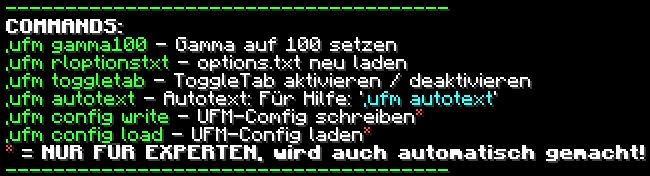
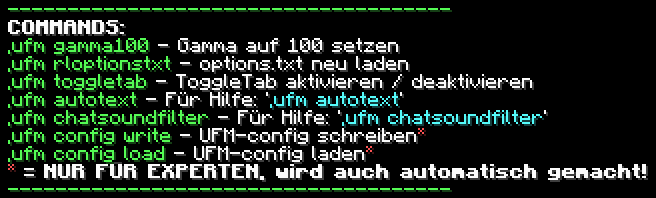
Added Chatsoundfilters, cleaned the code a bit

diff --git a/src/main/java/letsric/letsricsusefulmod/CommandHandler.java b/src/main/java/letsric/letsricsusefulmod/CommandHandler.java
@@ -1,0 +1,143 @@
+package letsric.letsricsusefulmod;
+
+import net.minecraft.client.MinecraftClient;
+import net.minecraft.client.gui.screen.ChatScreen;
+import net.minecraft.client.gui.widget.TextFieldWidget;
+import net.minecraft.text.LiteralText;
+
+import static letsric.letsricsusefulmod.LetsricsUsefulMod.autoTextArray;
+
+public class CommandHandler {
+    public static void onChatEvent(ChatScreen thisObject, TextFieldWidget ChatField, String message) {
+        if(message.startsWith(",ufm")) {
+            MinecraftClient.getInstance().inGameHud.getChatHud().addToMessageHistory(message);
+
+
+            if (message.startsWith(",ufm gamma100")) {
+                MinecraftClient.getInstance().options.gamma = 100;
+                MinecraftClient.getInstance().options.write();
+                MinecraftClient.getInstance().player.sendMessage(new LiteralText("§aGamma auf 100 gesetzt!"), true);
+
+
+            } else if (message.startsWith(",ufm rloptionstxt")) {
+                MinecraftClient.getInstance().options.load();
+                MinecraftClient.getInstance().player.sendMessage(new LiteralText("§aOptions.txt neu geladen!"), true);
+
+
+            } else if (message.startsWith(",ufm toggletab")) {
+                if (LetsricsUsefulMod.TablistInToggleMode) {
+                    LetsricsUsefulMod.TablistInToggleMode = false;
+                    LetsricsUsefulMod.WriteUFMOptionsFile();
+                    MinecraftClient.getInstance().player.sendMessage(new LiteralText("ToggleTab §cdeaktiviert§f!"), true);
+                } else {
+                    LetsricsUsefulMod.TablistInToggleMode = true;
+                    LetsricsUsefulMod.WriteUFMOptionsFile();
+                    MinecraftClient.getInstance().player.sendMessage(new LiteralText("ToggleTab §aaktiviert§f!"), true);
+                }
+
+
+            } else if (message.startsWith(",ufm autotext")) {
+                if (message.startsWith(",ufm autotext add")) {
+                    String trimmedMessage = message.substring(18);
+                    if (AutoText.addAutoTextKeybind(trimmedMessage) == 0) {
+                        autoTextArray.add(trimmedMessage);
+                        LetsricsUsefulMod.WriteUFMOptionsFile();
+                        MinecraftClient.getInstance().player.sendMessage(new LiteralText("§aHinzugefügt!"), true);
+                    }
+
+                } else if (message.startsWith(",ufm autotext list")) {
+                    if (!autoTextArray.isEmpty()) {
+                        MinecraftClient.getInstance().player.sendMessage(new LiteralText("------------------------"), false);
+                        MinecraftClient.getInstance().player.sendMessage(new LiteralText("§a§lAutotext:"), false);
+                        for (int i = 0; i < autoTextArray.size(); i++) {
+                            MinecraftClient.getInstance().player.sendMessage(new LiteralText("§b " + autoTextArray.get(i)), false);
+                        }
+                        MinecraftClient.getInstance().player.sendMessage(new LiteralText("------------------------"), false);
+                    } else
+                        MinecraftClient.getInstance().player.sendMessage(new LiteralText("§cAutoText ist leer!"), false);
+
+                } else if (message.startsWith(",ufm autotext remove")) {
+                    String trimmedMessage = message.substring(21);
+                    String fullMessage = "";
+                    for (int i = 0; i < autoTextArray.size(); i++) {
+                        String i2 = autoTextArray.get(i);
+                        if (i2.startsWith(trimmedMessage)) fullMessage = i2;
+                    }
+                    if (!fullMessage.equals("")) {
+                        if (AutoText.removeAutoTextKeybind(fullMessage) == 0) {
+                            autoTextArray.remove(fullMessage);
+                            LetsricsUsefulMod.WriteUFMOptionsFile();
+                            MinecraftClient.getInstance().player.sendMessage(new LiteralText("§aEntfernt!"), true);
+                        }
+                    } else
+                        MinecraftClient.getInstance().player.sendMessage(new LiteralText("§cNichts gefunden, dass mit §b" + trimmedMessage + "§c beginnt!"), true);
+
+                } else {
+                    MinecraftClient.getInstance().player.sendMessage(new LiteralText("§a-------------------------------------"), false);
+                    MinecraftClient.getInstance().player.sendMessage(new LiteralText("§lAUTOTEXT:"), false);
+                    MinecraftClient.getInstance().player.sendMessage(new LiteralText("§a,ufm autotext add <KEY>;<COMMAND>§f:"), false);
+                    MinecraftClient.getInstance().player.sendMessage(new LiteralText("   Einen neuen Autotext Hotkey hinzufügen."), false);
+                    MinecraftClient.getInstance().player.sendMessage(new LiteralText("   §cALLE TASTEN MÜSSEN IM ENGLISCHEN LAYOUT SEIN!"), false);
+                    MinecraftClient.getInstance().player.sendMessage(new LiteralText("   Liste von allen möglichen Tasten ist auf dem Github!"), false);
+                    MinecraftClient.getInstance().player.sendMessage(new LiteralText("   <KEY> = Die Taste für den neuen Hotkey"), false);
+                    MinecraftClient.getInstance().player.sendMessage(new LiteralText("   <MESSAGE> = Die Chatnachricht, die gesendet werden soll."), false);
+                    MinecraftClient.getInstance().player.sendMessage(new LiteralText("   §eBEISPIEL§f: §b,ufm autotext add c;/gamemode creative"), false);
+                    MinecraftClient.getInstance().player.sendMessage(new LiteralText("§a,ufm autotext list§f:"), false);
+                    MinecraftClient.getInstance().player.sendMessage(new LiteralText("   Alle Autotexts auflisten"), false);
+                    MinecraftClient.getInstance().player.sendMessage(new LiteralText("§a,ufm autotext remove <KEY>;<COMMAND>§f:"), false);
+                    MinecraftClient.getInstance().player.sendMessage(new LiteralText("   Das selbe wie autotext add, nur das"), false);
+                    MinecraftClient.getInstance().player.sendMessage(new LiteralText("   es keinen neuen Hotkey hinzufügt,"), false);
+                    MinecraftClient.getInstance().player.sendMessage(new LiteralText("   sondern einen vorhandenen löscht."), false);
+                    MinecraftClient.getInstance().player.sendMessage(new LiteralText("   Wenn dieser nicht vorhanden ist,"), false);
+                    MinecraftClient.getInstance().player.sendMessage(new LiteralText("   passiert nichts."), false);
+                    MinecraftClient.getInstance().player.sendMessage(new LiteralText("   §eBEISPIEL§f: §b,ufm autotext remove c;/gamemode creative"), false);
+                    MinecraftClient.getInstance().player.sendMessage(new LiteralText("§a-------------------------------------"), false);
+                }
+
+            } else if (message.startsWith(",ufm chatsoundfilter")) {
+                if (message.startsWith(",ufm chatsoundfilter add")) ChatSound.addFilter(message.substring(25));
+                else if (message.startsWith(",ufm chatsoundfilter remove")) ChatSound.removeFilter(message.substring(28));
+                else if (message.startsWith(",ufm chatsoundfilter list")) ChatSound.printFilters();
+                else {
+                    SendMessageToPlayer.SendMessageToPlayer("§a------------------------------------------", false);
+                    SendMessageToPlayer.SendMessageToPlayer("§lChatSound-Filter", false);
+                    SendMessageToPlayer.SendMessageToPlayer(" Mit einem ChatSound-Filter kannst du Zeichenfolgen definieren.", false);
+                    SendMessageToPlayer.SendMessageToPlayer(" Wenn eine dieser Zeichenfolgen im Chat gefunden wird, wird ein", false);
+                    SendMessageToPlayer.SendMessageToPlayer(" Ton abgespielt.", false);
+                    SendMessageToPlayer.SendMessageToPlayer("", false);
+                    SendMessageToPlayer.SendMessageToPlayer(" §lUsage:", false);
+                    SendMessageToPlayer.SendMessageToPlayer(" - §a,ufm chatsoundfilter add <ZEICHENFOLGE>", false);
+                    SendMessageToPlayer.SendMessageToPlayer("   Eine Zeichenfolge hinzufügen", false);
+                    SendMessageToPlayer.SendMessageToPlayer("", false);
+                    SendMessageToPlayer.SendMessageToPlayer(" - §a,ufm chatsoundfilter remove <ZEICHENFOLGE>", false);
+                    SendMessageToPlayer.SendMessageToPlayer("   Eine Zeichenfolge entfernen", false);
+                    SendMessageToPlayer.SendMessageToPlayer("", false);
+                    SendMessageToPlayer.SendMessageToPlayer(" - §a,ufm chatsoundfilter list", false);
+                    SendMessageToPlayer.SendMessageToPlayer("   Alle Zeichenfolgen in einer Liste anzeigen", false);
+                    SendMessageToPlayer.SendMessageToPlayer("§a------------------------------------------", false);
+                }
+
+
+            } else if (message.startsWith(",ufm config write")) {
+                LetsricsUsefulMod.WriteUFMOptionsFile();
+            } else if (message.startsWith(",ufm config load")) {
+                LetsricsUsefulMod.LoadUFMOptionsFile();
+
+
+            } else {
+                SendMessageToPlayer.SendMessageToPlayer("§a-------------------------------------", false);
+                SendMessageToPlayer.SendMessageToPlayer("§lCOMMANDS:", false);
+                SendMessageToPlayer.SendMessageToPlayer("§a,ufm gamma100§f - Gamma auf 100 setzen", false);
+                SendMessageToPlayer.SendMessageToPlayer("§a,ufm rloptionstxt§f - options.txt neu laden", false);
+                SendMessageToPlayer.SendMessageToPlayer("§a,ufm toggletab§f - ToggleTab aktivieren / deaktivieren", false);
+                SendMessageToPlayer.SendMessageToPlayer("§a,ufm autotext§f - Für Hilfe: '§b,ufm autotext§f'", false);
+                SendMessageToPlayer.SendMessageToPlayer("§a,ufm chatsoundfilter§f - Für Hilfe: '§b,ufm chatsoundfilter§f'", false);
+                SendMessageToPlayer.SendMessageToPlayer("§a,ufm config write§f - UFM-config schreiben§c*", false);
+                SendMessageToPlayer.SendMessageToPlayer("§a,ufm config load§f - UFM-config laden§c*", false);
+                SendMessageToPlayer.SendMessageToPlayer("§c*§f = §lNUR FÜR EXPERTEN, wird auch automatisch gemacht!", false);
+                SendMessageToPlayer.SendMessageToPlayer("§a-------------------------------------", false);
+            }
+            ChatField.setText("");
+        }
+    }
+}

diff --git a/src/main/java/letsric/letsricsusefulmod/LetsricsUsefulMod.java b/src/main/java/letsric/letsricsusefulmod/LetsricsUsefulMod.java
@@ -1,8 +1,6 @@
 package letsric.letsricsusefulmod;
 
-import com.mojang.logging.LogUtils;
 import net.fabricmc.api.ModInitializer;
-import org.slf4j.Logger;
 
 import java.io.*;
 import java.nio.charset.StandardCharsets;
@@ -38,14 +36,25 @@ public class LetsricsUsefulMod implements ModInitializer {
         for (int i = 0 ; i < optionsFileData.size() ; i++) {
             optionsFileData2.add(optionsFileData.get(i).split(": "));
         }
-        TablistInToggleMode = Boolean.parseBoolean(optionsFileData2.get(0)[1]);
-        int autoTextArraySize = Integer.parseInt(optionsFileData2.get(1)[1]);
+        int nextline = 0;
+        TablistInToggleMode = Boolean.parseBoolean(optionsFileData2.get(nextline)[1]);
+        nextline++;
+        int autoTextArraySize = Integer.parseInt(optionsFileData2.get(nextline)[1]);
+        nextline++;
         for (int i = 0 ; i < autoTextArraySize ; i++) {
-            String i2 = optionsFileData2.get(i + 2)[1];
+            String i2 = optionsFileData2.get(nextline)[1];
             if (AutoText.addAutoTextKeybind(i2) == 0) {
                 autoTextArray.add(i2);
             }
+            nextline++;
         }
+        int chatsoundfiltersize = Integer.parseInt(optionsFileData2.get(nextline)[1]);
+        nextline++;
+        for (int i = 0 ; i < chatsoundfiltersize ; i++) {
+            ChatSound.addFilter(optionsFileData2.get(nextline)[1]);
+            nextline++;
+        }
+
     }
     public static void WriteUFMOptionsFile() {
         File optionsFile = new File("UsefulModOptions.txt");
@@ -55,6 +64,9 @@ public class LetsricsUsefulMod implements ModInitializer {
             for (int i = 0 ; i < autoTextArray.size() ; i++) {
                 printWriter.println("autotext" + i + ": " + autoTextArray.get(i));
             }
+            int chatsoundfiltersize = ChatSound.Filters.size();
+            printWriter.println("chatsoundfiltersize: " + chatsoundfiltersize);
+            for (int i = 0 ; i < chatsoundfiltersize ; i++) printWriter.println("chatsoundfilter" + i + ": " + ChatSound.Filters.get(i));
         } catch (FileNotFoundException e) {
             e.printStackTrace();
         }

diff --git a/src/main/java/letsric/letsricsusefulmod/ChatSound.java b/src/main/java/letsric/letsricsusefulmod/ChatSound.java
@@ -1,0 +1,43 @@
+package letsric.letsricsusefulmod;
+
+import net.minecraft.client.MinecraftClient;
+import net.minecraft.sound.SoundEvents;
+import net.minecraft.text.Text;
+
+import java.util.ArrayList;
+
+public class ChatSound {
+    public static ArrayList<String> Filters = new ArrayList<>();
+
+    public static void addFilter(String Filter) {
+        Filters.add(Filter);
+        SendMessageToPlayer.SendMessageToPlayer("§AChatSoundFilter hinzugefügt!", true);
+        LetsricsUsefulMod.WriteUFMOptionsFile();
+    }
+
+    public static void removeFilter(String Filter) {
+        int temp_size = Filters.size();
+        for (int i = 0 ; i < Filters.size() ; i++) if (Filters.get(i).startsWith(Filter)) Filters.remove(i);
+        if (Filters.size() < temp_size) SendMessageToPlayer.SendMessageToPlayer("§aEntfernt!", true);
+        else SendMessageToPlayer.SendMessageToPlayer("§cNichts gefunden, dass mit §b" + Filter + "§c beginnt!", true);
+        LetsricsUsefulMod.WriteUFMOptionsFile();
+    }
+
+    public static void printFilters() {
+        if (!Filters.isEmpty()) {
+            SendMessageToPlayer.SendMessageToPlayer("------------------------", false);
+            SendMessageToPlayer.SendMessageToPlayer("§a§lChatSoundFilter:", false);
+            for (int i = 0; i < Filters.size(); i++)
+                SendMessageToPlayer.SendMessageToPlayer("§b " + Filters.get(i), false);
+            SendMessageToPlayer.SendMessageToPlayer("------------------------", false);
+        } else SendMessageToPlayer.SendMessageToPlayer("§cEs gibt keinen ChatSoundFilter!", true);
+    }
+
+    public static void messageReceived(Text message) {
+        for (int i = 0 ; i < Filters.size() ; i++) {
+            if (message.toString().contains(Filters.get(i))) {
+                MinecraftClient.getInstance().player.playSound(SoundEvents.ENTITY_EXPERIENCE_ORB_PICKUP, 2f, 1f);
+            }
+        }
+    }
+}

diff --git a/src/main/java/letsric/letsricsusefulmod/mixin/InGameHudMixin.java b/src/main/java/letsric/letsricsusefulmod/mixin/InGameHudMixin.java
@@ -1,25 +1,35 @@
 package letsric.letsricsusefulmod.mixin;
 
+import letsric.letsricsusefulmod.ChatSound;
 import letsric.letsricsusefulmod.LetsricsUsefulMod;
 import net.minecraft.client.MinecraftClient;
 import net.minecraft.client.gui.hud.InGameHud;
 import net.minecraft.client.util.math.MatrixStack;
+import net.minecraft.network.MessageType;
+import net.minecraft.text.Text;
 import org.spongepowered.asm.mixin.Mixin;
 import org.spongepowered.asm.mixin.injection.At;
 import org.spongepowered.asm.mixin.injection.Inject;
 import org.spongepowered.asm.mixin.injection.callback.CallbackInfo;
+
+import java.util.UUID;
 
 @Mixin(InGameHud.class)
 public class InGameHudMixin {
     private boolean TablistToggled = false;
 
     @Inject(method = "render", at = @At(value = "INVOKE", target = "Lnet/minecraft/client/gui/hud/ChatHud;render(Lnet/minecraft/client/util/math/MatrixStack;I)V"))
-    private void InjectIngameHud2(MatrixStack matrices, float tickDelta, CallbackInfo ci) {
+    private void InjectInGameHud1(MatrixStack matrices, float tickDelta, CallbackInfo ci) {
         if (LetsricsUsefulMod.TablistInToggleMode) {
             if (this.TablistToggled) MinecraftClient.getInstance().options.playerListKey.setPressed(true);
             if(MinecraftClient.getInstance().options.playerListKey.wasPressed()) {
                 this.TablistToggled = !this.TablistToggled;
             }
         }
+    }
+
+    @Inject(method = "addChatMessage", at = @At(value = "TAIL"))
+    private void InjectInGameHud2(MessageType type, Text message, UUID sender, CallbackInfo ci) {
+        ChatSound.messageReceived(message);
     }
 }

diff --git a/src/main/java/letsric/letsricsusefulmod/mixin/ChatScreenMixin.java b/src/main/java/letsric/letsricsusefulmod/mixin/ChatScreenMixin.java
@@ -1,5 +1,6 @@
 package letsric.letsricsusefulmod.mixin;
 
+import letsric.letsricsusefulmod.CommandHandler;
 import net.minecraft.client.gui.screen.ChatScreen;
 import net.minecraft.client.gui.widget.TextFieldWidget;
 import org.spongepowered.asm.mixin.Mixin;
@@ -15,6 +16,6 @@ public class ChatScreenMixin{
         ChatScreen thisObject = ((ChatScreen)(Object)this);
         TextFieldWidget ChatField = ((ChatScreenAccessor)thisObject).getChatField();
         String message = ChatField.getText().trim();
-        letsric.letsricsusefulmod.onChatEvent.onChatEvent(thisObject, ChatField, message);
+        CommandHandler.onChatEvent(thisObject, ChatField, message);
     }
 }

diff --git a/src/main/java/letsric/letsricsusefulmod/SendMessageToPlayer.java b/src/main/java/letsric/letsricsusefulmod/SendMessageToPlayer.java
@@ -1,0 +1,14 @@
+package letsric.letsricsusefulmod;
+
+import net.minecraft.client.MinecraftClient;
+import net.minecraft.text.LiteralText;
+
+public class SendMessageToPlayer {
+    public static void SendMessageToPlayer(String message, boolean actionBar) {
+        try {
+            MinecraftClient.getInstance().player.sendMessage(new LiteralText(message), actionBar);
+        } catch (NullPointerException e) {
+            // We can skip sending Messages while the mod is initializing
+        }
+    }
+}

diff --git a/README.md b/README.md
@@ -28,6 +28,7 @@ im Chat abgesendet!**
 ### Befehlsliste:
 ![Image](Help1.png)
 ![Image](Help2.png)
+![Image](Help3.png)
 
 ---
 
